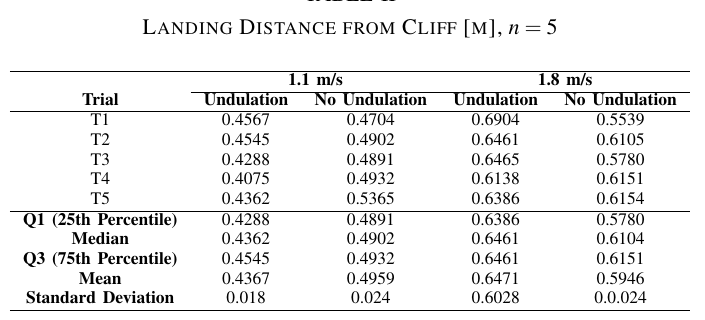
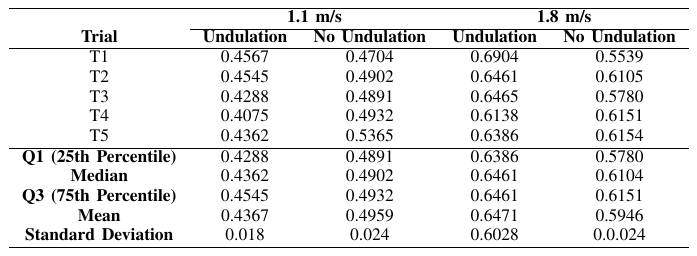
updates

Changed region(s): [[0.0, 0.0, 0.9943, 1.0]]

diff --git a/snake-undulation.html b/snake-undulation.html
@@ -32,32 +32,13 @@
       <span>Statistics</span>
     </div>
 
-    <h1 class="detail-hero__title">Snake Undulation: Development of Multi-Modal Locomotion in a Bio-Inspired System</h1>
+    <h1 class="detail-hero__title detail-hero__title--tight">Bio-Inspired Robot for Multi-Modal Locomotion</h1>
     <p class="detail-hero__subtitle">
-      A modular, 7-segment gliding snake robot built to test whether aerial undulation increases glide distance. The motion
-      real gliding snakes use mid-flight. A five-person team project;
+      A modular, 7-segment gliding snake robot built to test whether aerial undulation — the motion
+      real gliding snakes use mid-flight — actually increases glide distance. A five-person team project;
       I led the motor torque analysis that sized and selected the actuators, and worked on experimental
       testing and statistical analysis of the results.
     </p>
-
-    <div class="metrics">
-      <div class="metric">
-        <span class="metric__value">+8.7%</span>
-        <span class="metric__label">GLIDE DISTANCE<br>AT 1.8 m/s</span>
-      </div>
-      <div class="metric">
-        <span class="metric__value">p=0.010</span>
-        <span class="metric__label">TWO-SAMPLE<br>T-TEST</span>
-      </div>
-      <div class="metric">
-        <span class="metric__value">3× → 4×</span>
-        <span class="metric__label">MOTOR SAFETY<br>FACTOR IMPROVED</span>
-      </div>
-      <div class="metric">
-        <span class="metric__value">7</span>
-        <span class="metric__label">MODULES,<br>6 SERVOS</span>
-      </div>
-    </div>
   </section>
 
   <!-- ===== STAR WRITEUP ===== -->
@@ -74,7 +55,7 @@
         and without undulation under identical launch conditions.
       </p>
       <figure class="figure">
-        <img src="images/background.jpg" alt="Top: the gliding snake Chrysopelea paradisi mid-flight, flattening its body into an airfoil shape. Bottom: the modular bio-inspired robot built to replicate its undulatory motion." style="max-width: 280px; margin: 0 auto; display: block;">
+        <img src="images/background.jpg" alt="Top: the gliding snake Chrysopelea paradisi mid-flight, flattening its body into an airfoil shape. Bottom: the modular bio-inspired robot built to replicate its undulatory motion.">
         <figcaption>The gliding snake Chrysopelea paradisi mid-flight (top), and the modular bio-inspired robot we built to replicate its undulatory motion (bottom).</figcaption>
       </figure>
     </div>
@@ -88,12 +69,10 @@
         design of the side modules. I also contributed to the experimental testing of the physical robot and
         the statistical analysis used to evaluate whether undulation meaningfully changed glide distance.
       </p>
-      <div class="star-block__figures">
-        <figure class="figure">
-          <img src="images/design.jpg" alt="Top: mechanical design of the modular snake robot showing the module linkage connector, micro servo motors, center module, and side modules. Bottom: overview of the electrical system including the Arduino Nano, multiplexer, motor driver, magnetic sensor, and servo array.">
-          <figcaption>Mechanical design of the 7-module robot (top) and its electrical system (bottom) — the platform my torque analysis needed to fit within.</figcaption>
-        </figure>
-      </div>
+      <figure class="figure">
+        <img src="images/design.jpg" alt="Top: mechanical design of the modular snake robot showing the module linkage connector, micro servo motors, center module, and side modules. Bottom: overview of the electrical system including the Arduino Nano, multiplexer, motor driver, magnetic sensor, and servo array.">
+        <figcaption>Mechanical design of the 7-module robot (top) and its electrical system (bottom) — the platform my torque analysis needed to fit within.</figcaption>
+      </figure>
     </div>
 
     <div class="star-block">
@@ -110,25 +89,67 @@
 
       <p style="margin-top: 28px;">The core calculation: each module <em>i</em> follows a sinusoidal joint trajectory, and the peak angular acceleration sets the worst-case torque demand at each joint.</p>
 
-      <div class="equation-block">
-        <div class="eq">θᵢ(t) = A · sin(ωt + φᵢ)</div>
-        <div class="eq">θ̈ᵢ(t) = −Aω² · sin(ωt + φᵢ)  →  peak magnitude |θ̈|max = Aω²</div>
-        <div class="eq">τⱼ = Ij,total · |θ̈|max        (Newton's second law at joint j)</div>
-        <div class="eq">I = Icm + m·d²        (parallel-axis theorem, d = distance from pivot to center of mass)</div>
-        <div class="eq">SFⱼ = τsafe / τⱼ,   where τsafe = 0.50 · τstall = 0.0735 N·m</div>
-        <p class="eq-note">A = π/4 rad (max amplitude), ω = 2.8 rad/s. Four Icm models were compared — thin rod, hoop, solid cylinder, hollow cylinder — to bound the estimate. SFⱼ ≥ 1 means the motor operates safely; the innermost joint (highest inertia) was the limiting case.</p>
+      <div class="derivation">
+        <div class="derivation__group">
+          <p class="derivation__label">Undulation kinematics</p>
+          <div class="eqn-row">
+            <span class="eqn">θ<sub>i</sub>(t) = A sin(ωt + φ<sub>i</sub>)</span>
+            <span class="eqn-num">gait</span>
+          </div>
+          <div class="eqn-row">
+            <span class="eqn">θ̈<sub>i</sub>(t) = −Aω² sin(ωt + φ<sub>i</sub>)</span>
+            <span class="eqn-num">accel</span>
+          </div>
+          <div class="eqn-row">
+            <span class="eqn">|θ̈|<sub>max</sub> = Aω²</span>
+            <span class="eqn-num">peak</span>
+          </div>
+        </div>
+
+        <div class="derivation__group">
+          <p class="derivation__label">Required joint torque</p>
+          <div class="eqn-row">
+            <span class="eqn">τ<sub>j</sub> = I<sub>j,total</sub> · |θ̈|<sub>max</sub></span>
+            <span class="eqn-num">Newton's 2nd law</span>
+          </div>
+        </div>
+
+        <div class="derivation__group">
+          <p class="derivation__label">Parallel-axis theorem</p>
+          <div class="eqn-row">
+            <span class="eqn">I = I<sub>cm</sub> + m·d²</span>
+            <span class="eqn-num">inertia about pivot</span>
+          </div>
+        </div>
+
+        <div class="derivation__group">
+          <p class="derivation__label">Motor safety factor</p>
+          <div class="eqn-row">
+            <span class="eqn">τ<sub>safe</sub> = 0.50 · τ<sub>stall</sub> = 0.0735 N·m</span>
+            <span class="eqn-num">working limit</span>
+          </div>
+          <div class="eqn-row">
+            <span class="eqn">SF<sub>j</sub> = τ<sub>safe</sub> / τ<sub>j</sub></span>
+            <span class="eqn-num">safety factor</span>
+          </div>
+        </div>
+
+        <p class="derivation__note">
+          A = π/4 rad (max amplitude), ω = 2.8 rad/s. Four I<sub>cm</sub> models were compared — thin rod,
+          hoop, solid cylinder, hollow cylinder — to bound the estimate. SF<sub>j</sub> ≥ 1 means the motor
+          operates safely; the innermost joint (highest inertia) was the limiting case.
+        </p>
       </div>
 
-      <div class="star-block__figures">
-        <figure class="figure">
-          <img src="images/table3-torque-pla.png" alt="Table 3: Moment of inertia and required torque by motor position for the PLA side-module design.">
-          <figcaption>Table III — Required torque by motor position, PLA design (ρ = 1.25 g/cm³).</figcaption>
-        </figure>
-        <figure class="figure">
-          <img src="images/table4-torque-balsa.png" alt="Table 4: Moment of inertia and required torque by motor position for the balsa wood side-module design.">
-          <figcaption>Table IV — Required torque by motor position, balsa wood design (ρ = 0.16 g/cm³).</figcaption>
-        </figure>
-      </div>
+      <figure class="figure" style="margin-top: 32px;">
+        <img src="images/table3-torque-pla.png" alt="Table showing moment of inertia and required torque by motor position for the PLA side-module design.">
+        <figcaption>Required torque by motor position, PLA design (ρ = 1.25 g/cm³).</figcaption>
+      </figure>
+
+      <figure class="figure" style="margin-top: 24px;">
+        <img src="images/table4-torque-balsa.png" alt="Table showing moment of inertia and required torque by motor position for the balsa wood side-module design.">
+        <figcaption>Required torque by motor position, balsa wood design (ρ = 0.16 g/cm³).</figcaption>
+      </figure>
     </div>
 
     <div class="star-block star-block--result">
@@ -143,19 +164,19 @@
         that undulation's benefit depends on reaching a sufficient launch velocity.
       </p>
 
-      <figure class="figure">
+      <figure class="figure figure--half">
         <img src="images/launch-un-nu.jpg" alt="Video frame sequence comparing the robot's launch trajectory without undulation (top row) and with undulation (bottom row).">
         <figcaption>Launch trajectory without undulation (top) vs. with undulation (bottom) at matched launch conditions.</figcaption>
       </figure>
 
-      <figure class="figure">
+      <figure class="figure figure--half">
         <img src="images/stats.png" alt="Box and whisker plots comparing landing distance between undulation and no-undulation conditions at launch speeds of 1.1 m/s and 1.8 m/s.">
         <figcaption>Landing distance by condition at each launch speed — no separation at 1.1 m/s, a clear and significant gap at 1.8 m/s.</figcaption>
       </figure>
 
-      <figure class="figure">
-        <img src="images/table2-landing-distance.png" alt="Table 2: Landing distance from cliff in meters for all five trials at each of the four experimental conditions.">
-        <figcaption>Table II — Landing distance from cliff (m) across all five trials per condition.</figcaption>
+      <figure class="figure figure--half">
+        <img src="images/table2-landing-distance.png" alt="Table showing landing distance from cliff in meters for all five trials at each of the four experimental conditions.">
+        <figcaption>Landing distance from cliff (m) across all five trials per condition.</figcaption>
       </figure>
     </div>
 

diff --git a/style.css b/style.css
@@ -554,28 +554,73 @@ button:focus-visible {
   margin-top: 10px;
 }
 
-/* Equation blocks — for rewritten math, no image needed */
-.equation-block {
+/* Equation numbers (small, right-aligned) */
+.derivation {
   background: #FFFFFF;
   border: 1px solid var(--line);
   border-radius: var(--radius);
-  padding: 20px 24px;
-  margin: 16px 0;
+  padding: 28px 32px;
+  margin: 20px 0;
   max-width: 680px;
 }
 
-.equation-block .eq {
+.derivation__group { margin-bottom: 22px; }
+.derivation__group:last-of-type { margin-bottom: 0; }
+
+.derivation__label {
   font-family: var(--font-mono);
-  font-size: 14.5px;
-  color: var(--ink);
-  margin: 6px 0;
-  overflow-x: auto;
+  font-size: 11px;
+  text-transform: uppercase;
+  letter-spacing: 0.06em;
+  color: var(--sage);
+  margin: 0 0 10px;
 }
 
-.equation-block .eq-note {
+.eqn-row {
+  display: flex;
+  justify-content: space-between;
+  align-items: baseline;
+  gap: 16px;
+  padding: 7px 0;
+  border-bottom: 1px dashed var(--line);
+}
+
+.eqn-row:last-child { border-bottom: none; }
+
+.eqn {
+  font-family: Georgia, 'Times New Roman', serif;
+  font-style: italic;
+  font-size: 16px;
+  color: var(--ink);
+}
+
+.eqn sub, .eqn sup { font-style: normal; }
+
+.eqn-num {
+  font-family: var(--font-mono);
+  font-size: 12px;
+  color: var(--ink-soft);
+  white-space: nowrap;
+}
+
+.derivation__note {
   font-size: 13px;
   color: var(--ink-soft);
-  margin: 10px 0 0;
+  margin: 20px 0 0;
+  padding-top: 16px;
+  border-top: 1px solid var(--line);
+}
+
+/* Half-size result images */
+.figure--half img {
+  max-width: 50%;
+  margin: 0 auto;
+}
+
+/* Compact page title for shorter project names */
+.detail-hero__title--tight {
+  font-size: clamp(22px, 3.2vw, 32px);
+  max-width: 900px;
 }
 
 /* =========================================================
@@ -614,5 +659,19 @@ button:focus-visible {
 
   .star-block__figures {
     grid-template-columns: 1fr;
+  }
+
+  .derivation {
+    padding: 20px;
+  }
+
+  .eqn-row {
+    flex-direction: column;
+    align-items: flex-start;
+    gap: 2px;
+  }
+
+  .eqn-num {
+    color: var(--sage);
   }
 }
